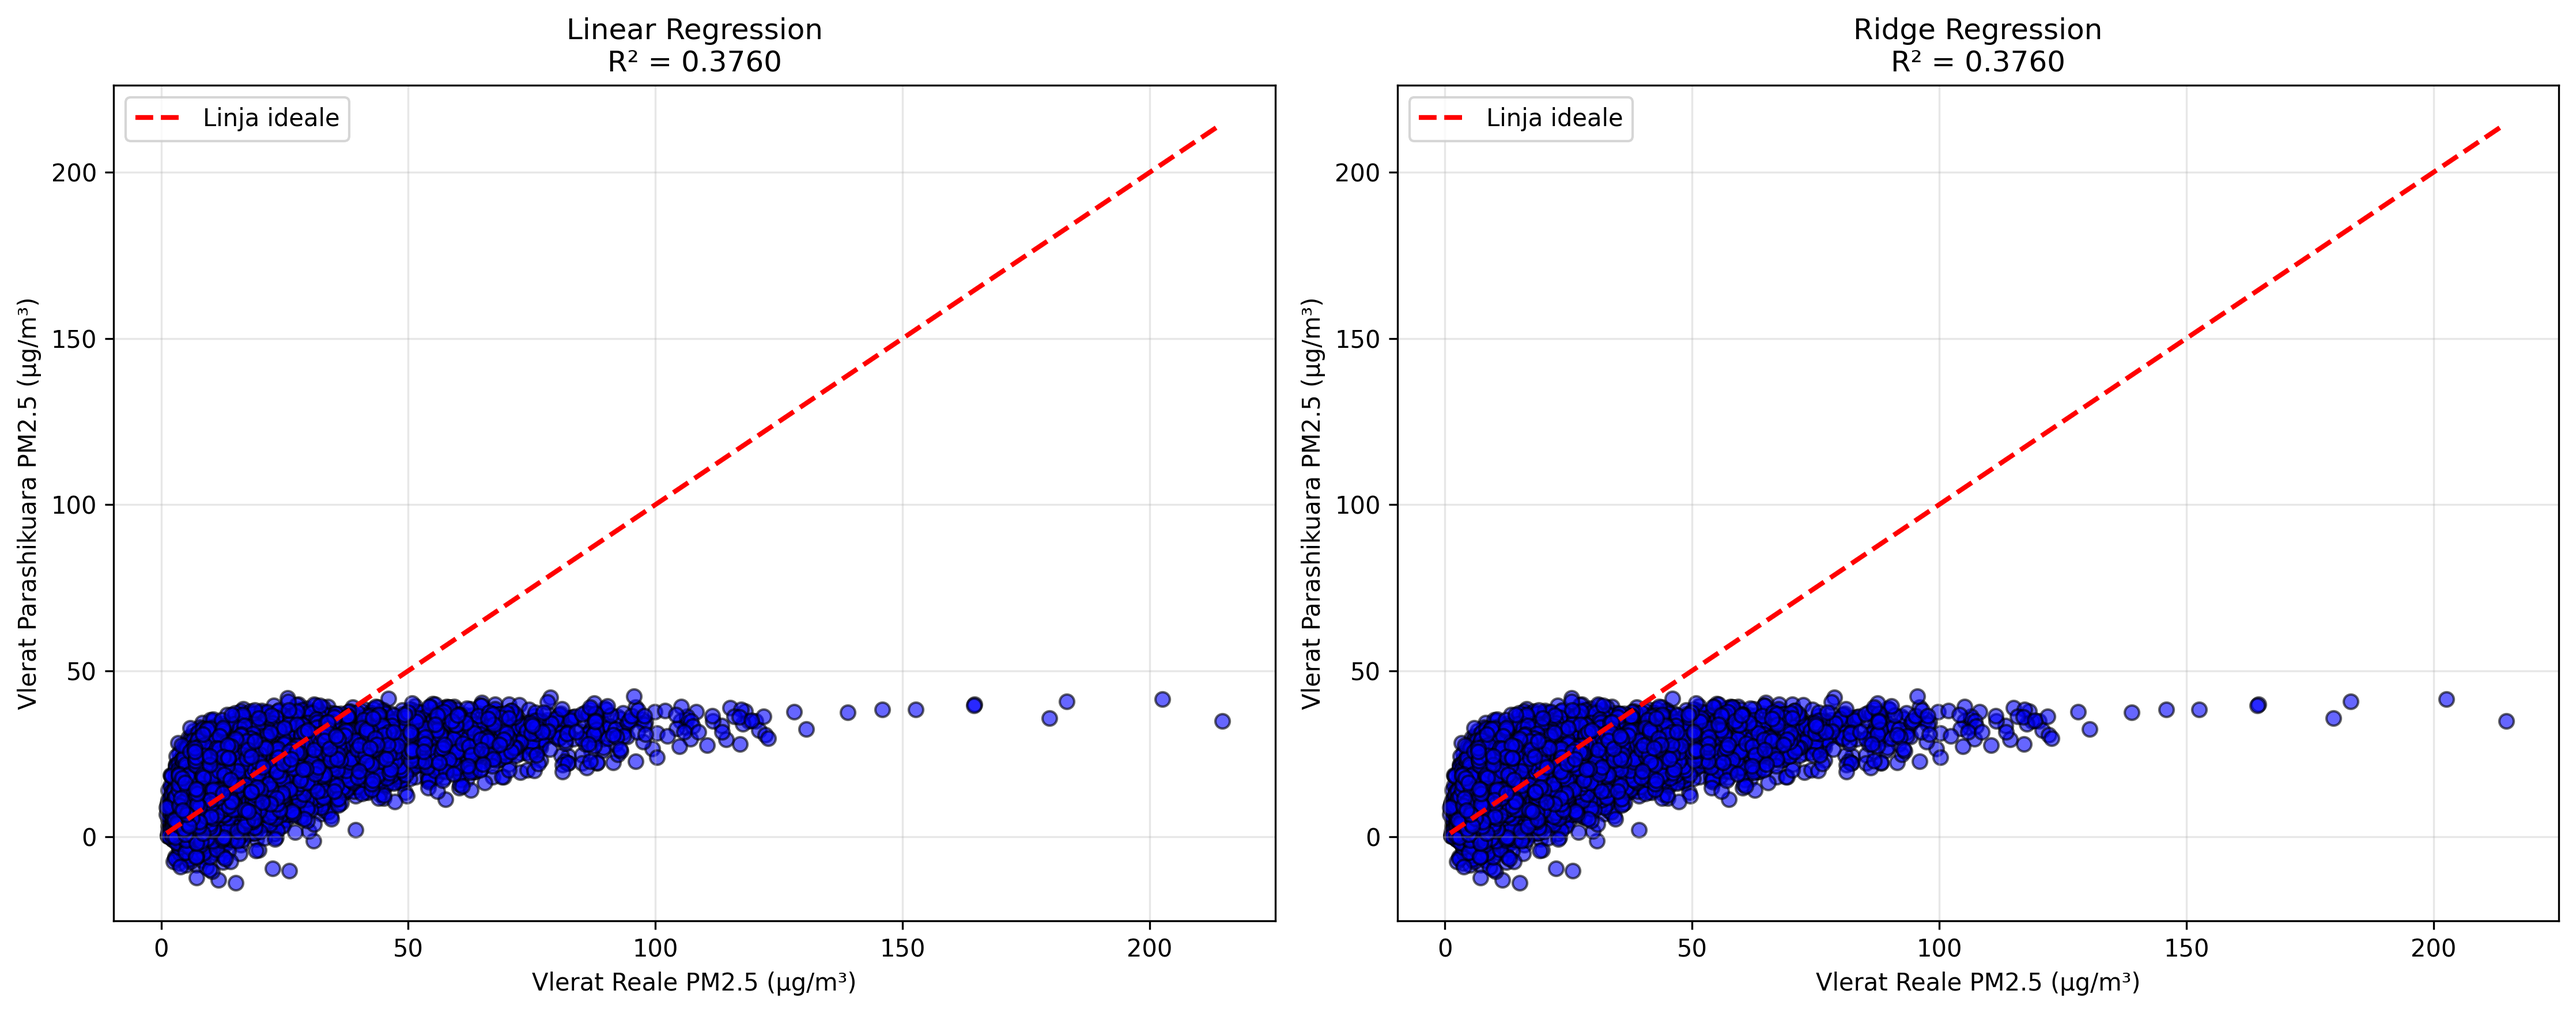
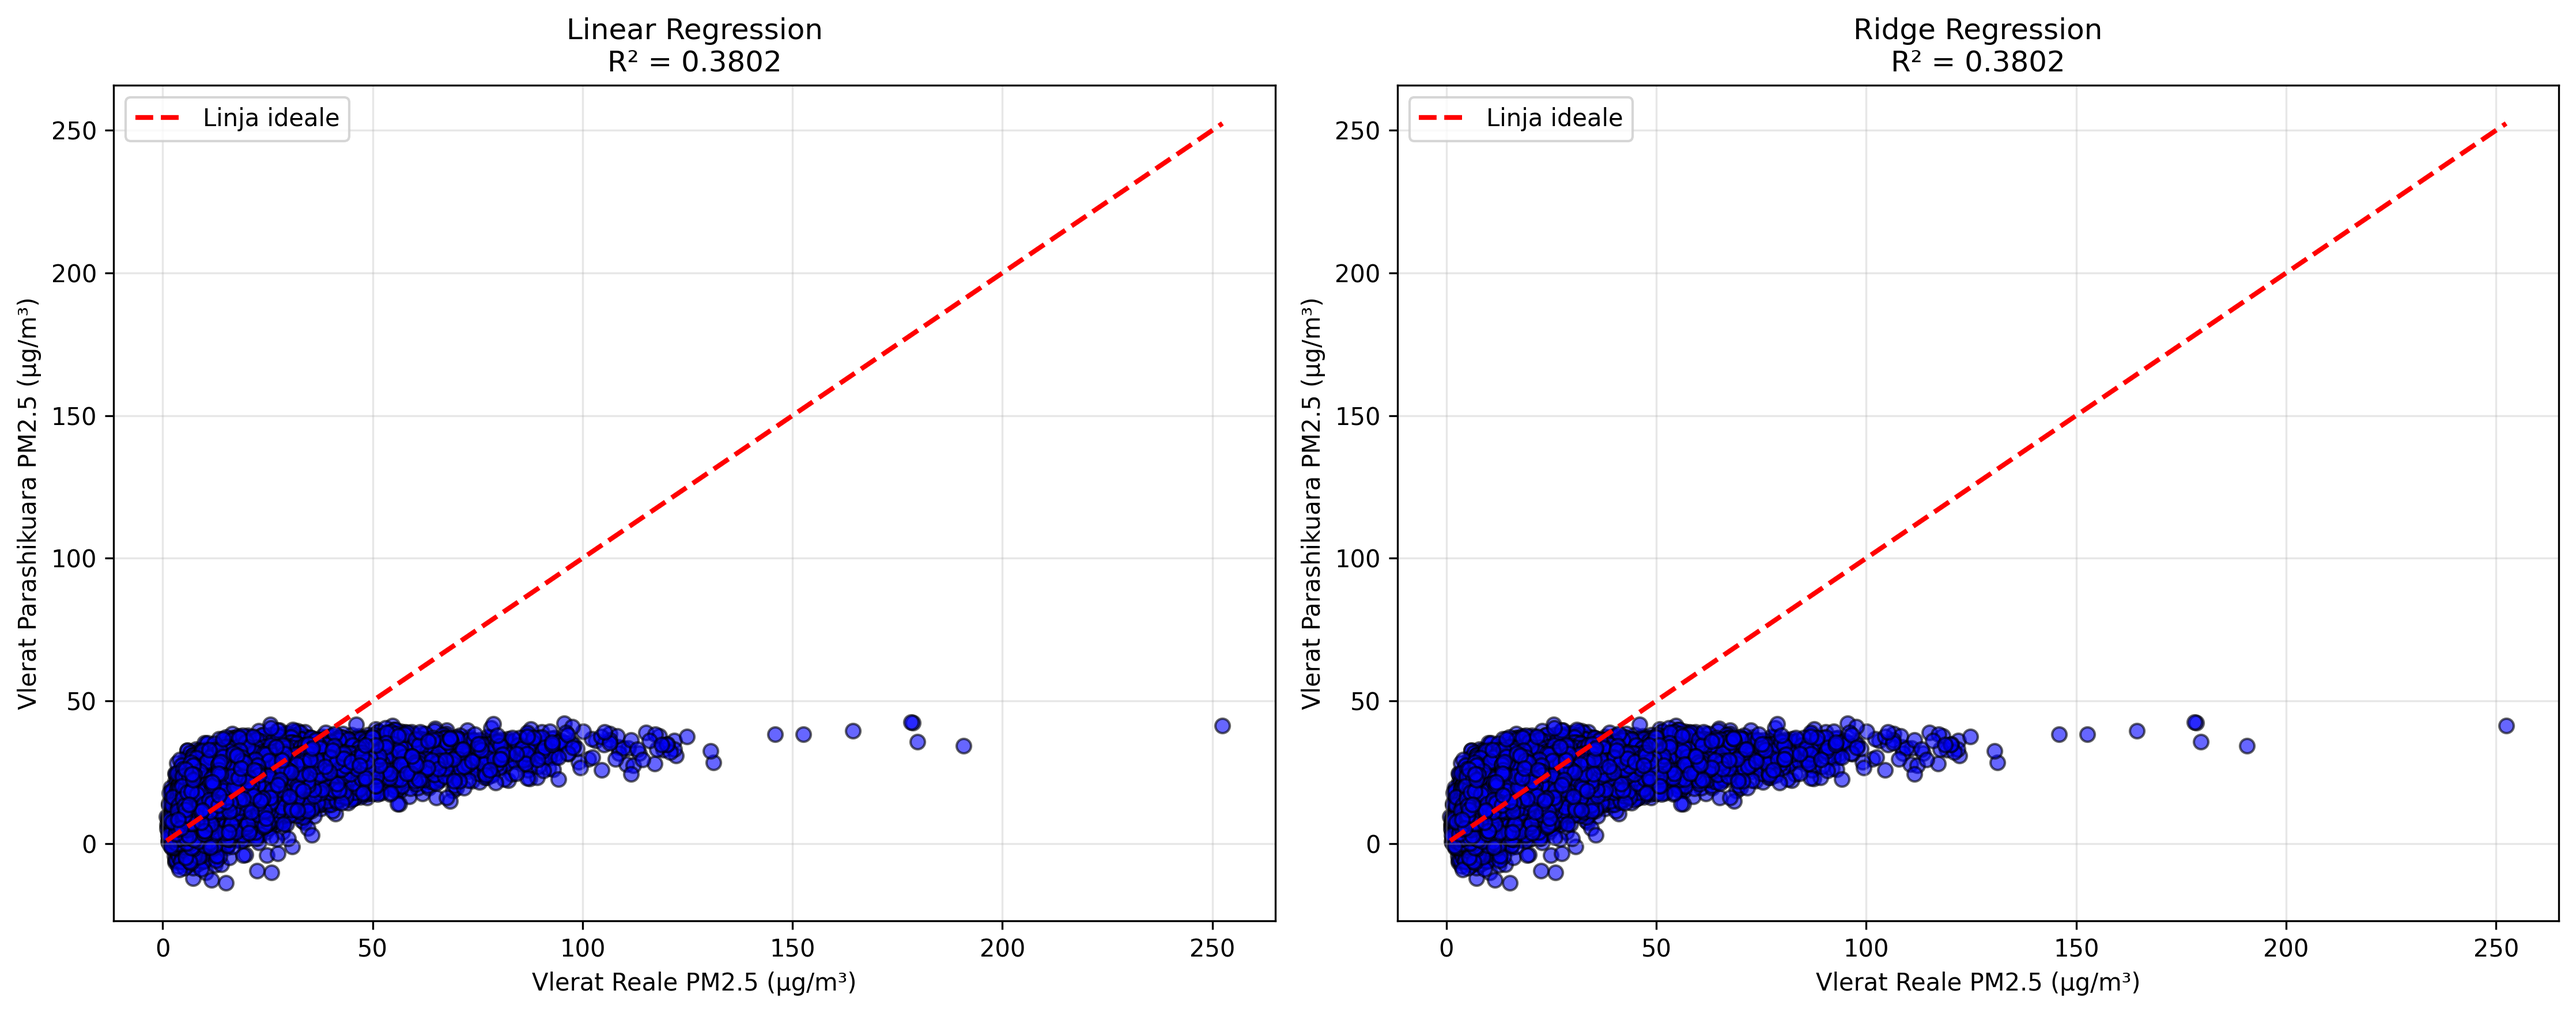
update README.md

diff --git a/FAZA-2_Trajnimi_i_modelit/model_evaluation.py b/FAZA-2_Trajnimi_i_modelit/model_evaluation.py
@@ -65,7 +65,7 @@ def evaluate_supervised(models):
         name = m.get('model_name', m.get('model', 'Model i Panjohur'))
         metrics = m.get('metrics', m)
 
-        r2 = metrics.get('R2', metrics.get('r2_score', metrics.get('r2', 0)))
+        r2 = metrics.get('R²', metrics.get('R2', metrics.get('r2_score', metrics.get('r2', 0))))
         mae = metrics.get('MAE', metrics.get('mae', 0))
         rmse = metrics.get('RMSE', metrics.get('rmse', 0))
 
@@ -97,7 +97,7 @@ def evaluate_supervised(models):
                  f'{width:.4f}', va='center', fontsize=11, fontweight='bold', color='#333333')
 
     plt.tight_layout()
-    plt.savefig(OUTPUT_DIR / 'eval_r2_comparison4.png', dpi=300)
+    plt.savefig(OUTPUT_DIR / 'eval_r2_comparison5.png', dpi=300)
     plt.close()
 
     df_errors = df_metrics.melt(id_vars=['Modeli'], value_vars=['MAE', 'RMSE'],
@@ -117,7 +117,7 @@ def evaluate_supervised(models):
                      f'{width:.2f}', va='center', fontsize=10, fontweight='bold', color='black')
 
     plt.tight_layout()
-    plt.savefig(OUTPUT_DIR / 'eval_error_comparison4.png', dpi=300)
+    plt.savefig(OUTPUT_DIR / 'eval_error_comparison5.png', dpi=300)
     plt.close()
 
     print(f"\n   -> Grafiqet e Modeleve Supervised u ruajtën në '{OUTPUT_DIR.name}'")

diff --git a/FAZA-2_Trajnimi_i_modelit/supervised/ridge-linear-baseline_models.py b/FAZA-2_Trajnimi_i_modelit/supervised/ridge-linear-baseline_models.py
@@ -465,7 +465,13 @@ class SupervisedAirQualityModel:
 
 def main():
     """Funksioni kryesor"""
-    # Shtegu i dataset-it
+    # 1. Gjej në mënyrë dinamike rrënjën e projektit (3 nivele sipër këtij skripti)
+    BASE_DIR = os.path.dirname(os.path.dirname(os.path.dirname(os.path.abspath(__file__))))
+
+    # 2. Ndrysho "Working Directory" që çdo shteg relativ të nisë nga rrënja e projektit
+    os.chdir(BASE_DIR)
+
+    # 3. Tani shtegu origjinal do të funksionojë në mënyrë perfekte!
     data_path = 'Datasetet/ml_ready_dataset/kosova_global_ml_data.csv'
 
     # Krijo dhe ekzekuto modelin

diff --git a/README.md b/README.md
@@ -474,9 +474,9 @@ Per te parashikuar nivelet e `PM2.5`, skripta `model_evaluation.py` lexon artefa
 
 | Krahasimi i Saktesise ($R^2$ Score) | Krahasimi i Gabimeve (MAE & RMSE) |
 |:---:|:---:|
-| ![R2 Comparison](images/eval_r2_comparison4.png) | ![Error Comparison](images/eval_error_comparison4.png) |
+| ![R2 Comparison](images/eval_r2_comparison5.png) | ![Error Comparison](images/eval_error_comparison5.png) |
 
-* **Gjetja:** Sipas output-it aktual te `model_evaluation.py`, `XGBoost Regressor` mbetet modeli me i mire supervised me `R² = 0.8413`, `MAE = 2.08` dhe `RMSE = 3.20`. `Random Forest Regressor` tashme eshte shume afer me `R² = 0.8283`, `MAE = 2.17` dhe `RMSE = 3.33`, ndersa `Linear Regression` dhe `Ridge Regression` paraqiten ne grafikun final me `R² = 0.0000` dhe me gabime dukshem me te larta. Pra, fotot e reja tregojne nje gare shume me te ngushte mes `XGBoost` dhe `Random Forest` sesa me pare.
+* **Gjetja:** Sipas output-it aktual te `model_evaluation.py`, `XGBoost Regressor` mbetet modeli me i mire supervised me `R² = 0.8413`, `MAE = 2.08` dhe `RMSE = 3.20`. `Random Forest Regressor` tashme eshte shume afer me `R² = 0.8283`, `MAE = 2.17` dhe `RMSE = 3.33`, ndersa `Linear Regression` dhe `Ridge Regression` paraqiten ne grafikun final me `R² = 0.3800` dhe me gabime dukshem me te larta. Pra, fotot e reja tregojne nje gare shume me te ngushte mes `XGBoost` dhe `Random Forest` sesa me pare.
 
 #### B. Sinergjia mes Parashikimit dhe Zbulimit (Supervised + Unsupervised)
 1.  **Parashikimi:** `XGBoost` dhe `Random Forest` perdoren per parashikimin e `PM2.5`.
